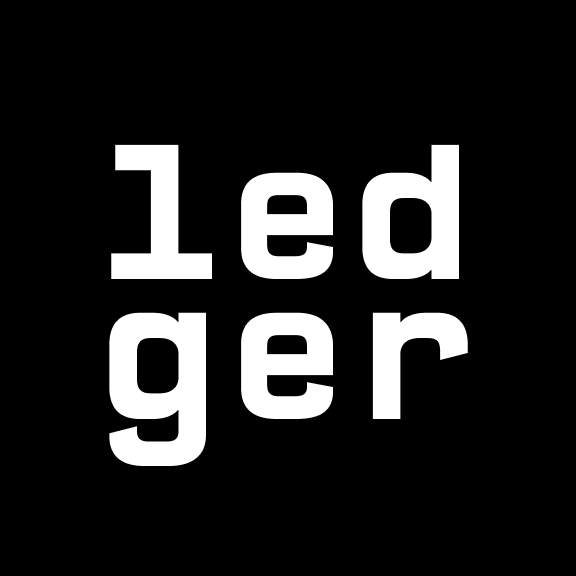
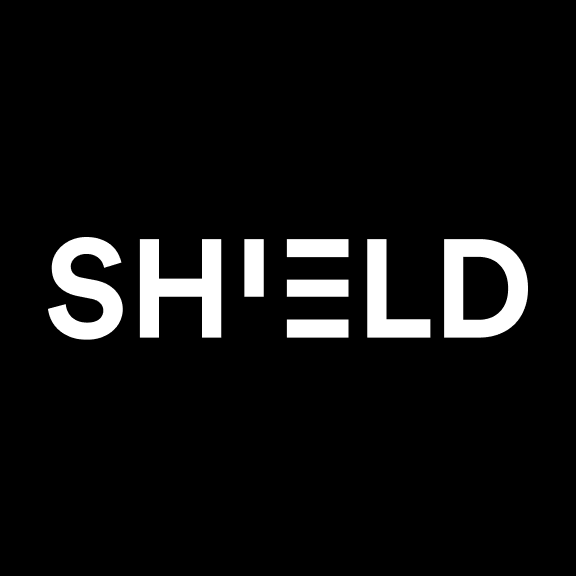
Starting a new version (codename SHIELD)

Changed region(s): [[0.0625, 0.25, 0.9375, 0.8125]]

diff --git a/App.js b/App.js
@@ -22,8 +22,8 @@ const App = () => {
       await Font.loadAsync({
         // 'font-family': require('./assets/fonts/IBMPlexSans-Regular.ttf'),
         // 'font-family-bold': require('./assets/fonts/IBMPlexSans-Bold.ttf'),
-        'font-family': require('./assets/fonts/Spotify-Circular-Book.ttf'),
-        'font-family-bold': require('./assets/fonts/Spotify-Circular-Bold.ttf'),
+        'font-family': require('./assets/fonts/Circular-SP-Book.ttf'),
+        'font-family-bold': require('./assets/fonts/Circular-SP-Bold.ttf'),
         'font-family-currency': require('./assets/fonts/IBMPlexSans-Bold.ttf'),
       });
       THEME.extend(theme);
